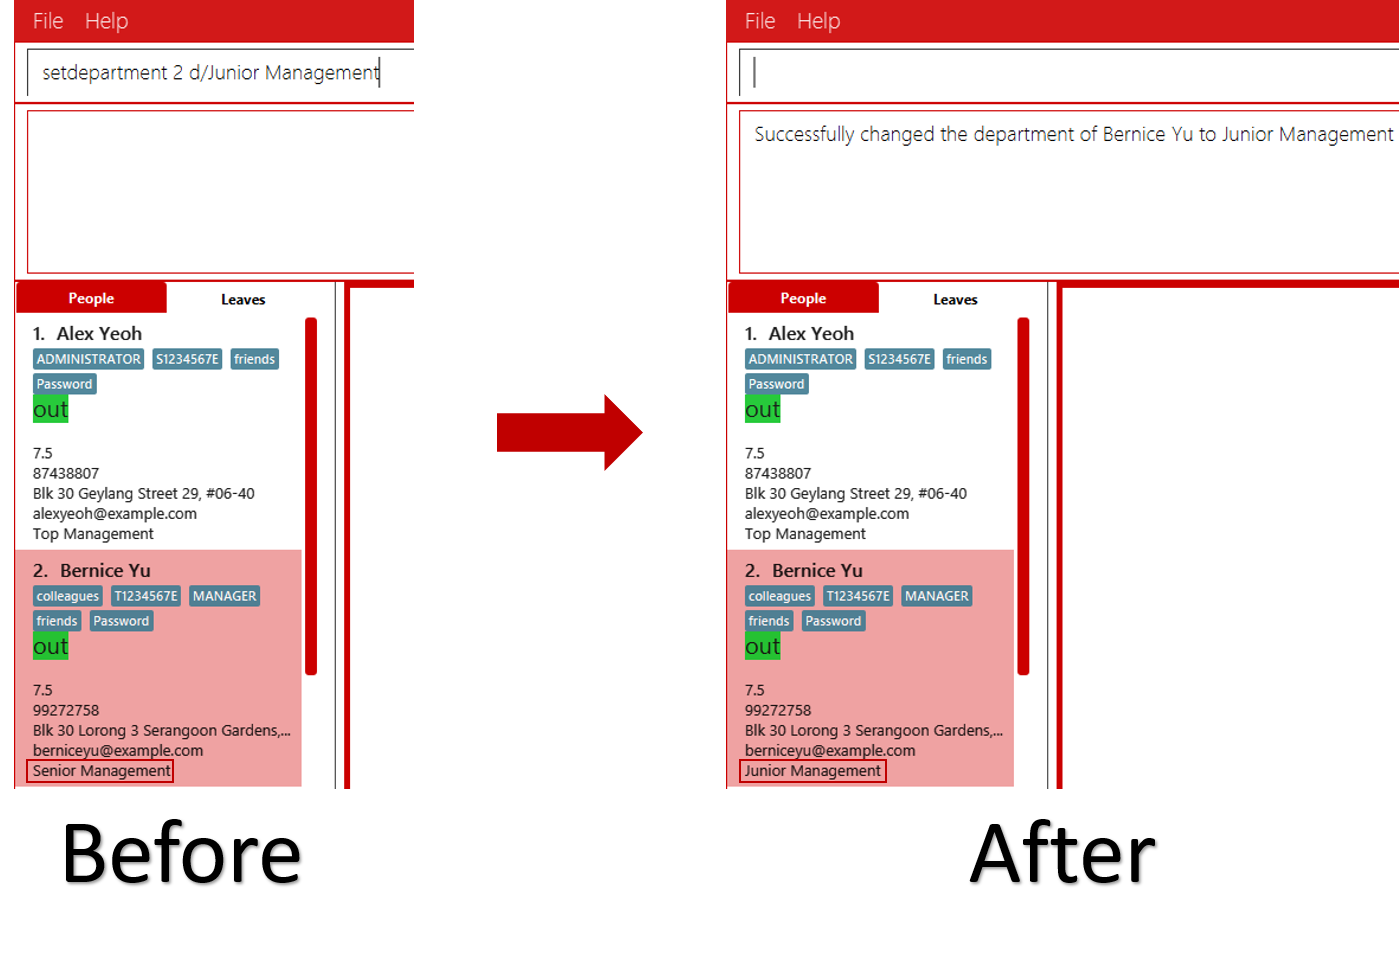
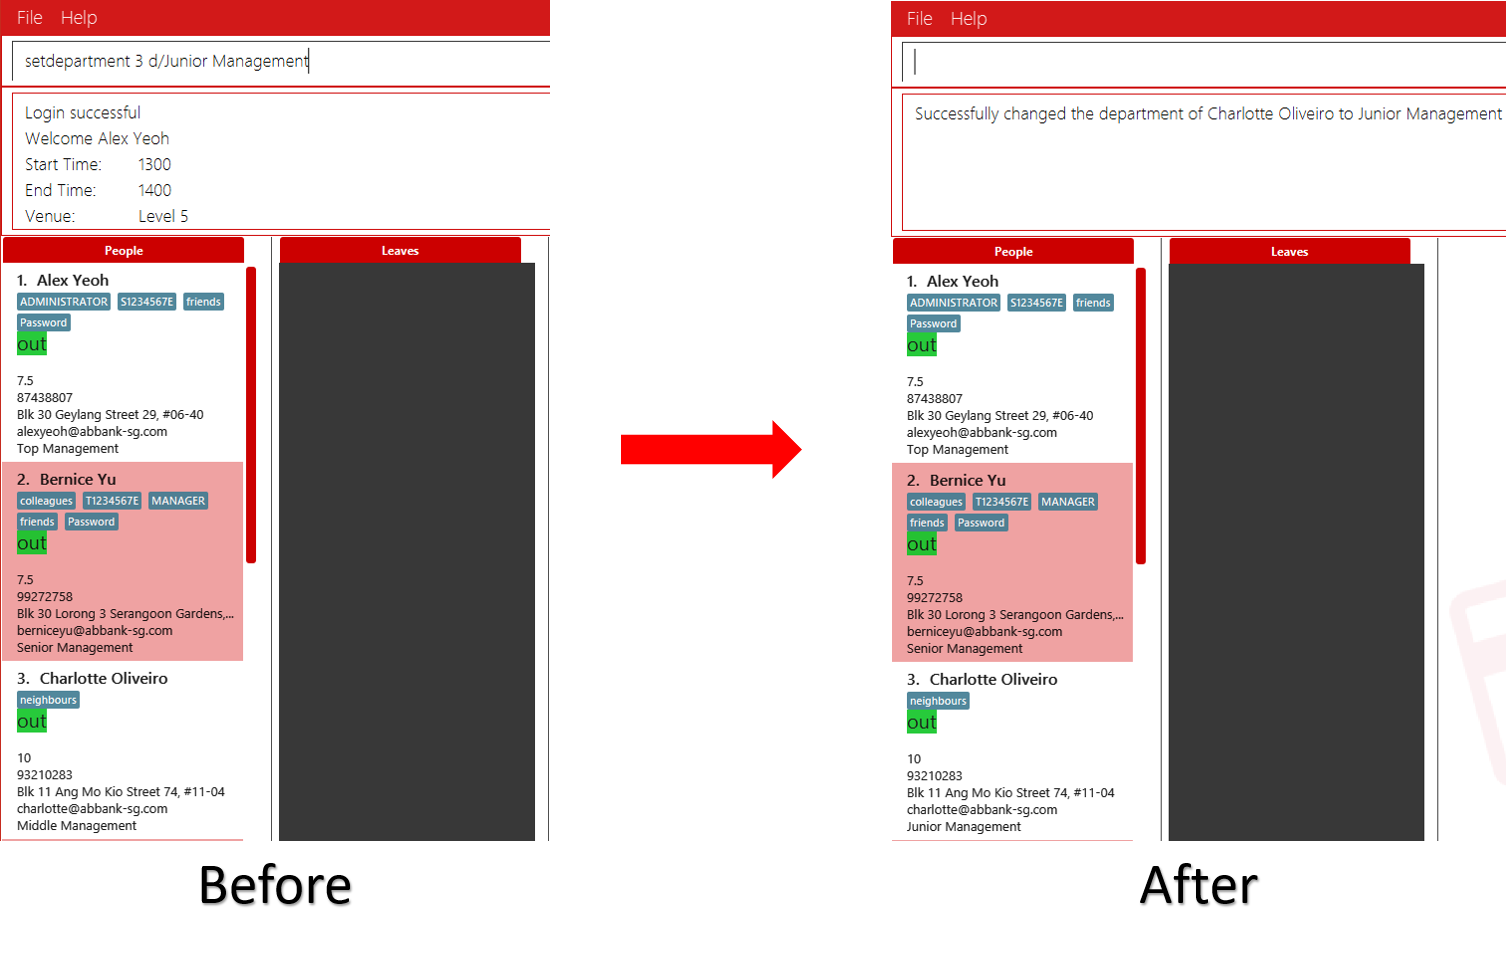
Rebuild pages at 8d084a7785b1a5d34f5092ece26e7e6dc1a65d03

diff --git a/HelpWindow.html b/HelpWindow.html
@@ -238,7 +238,7 @@ e.g.: Specifying parameters in the order ic/NRIC n/NAME is identical to n/NAME i
 <div class="paragraph">
 <p>Logs in to the application using a registered NRIC and password.<br>
 Format: <code>login ic/NRIC pwd/PASSWORD</code><br>
-Example: <code>login ic/T1234567E pwd/Password</code></p>
+Example: <code>login ic/S1234567E pwd/Password</code></p>
 </div>
 <div class="exampleblock">
 <div class="content">
@@ -252,7 +252,7 @@ Example: <code>login ic/T1234567E pwd/Password</code></p>
 </div>
 <div class="imageblock">
 <div class="content">
-<img src="images/login_success_screenShot.png" alt="login success screenShot" width="600">
+<img src="images/login_success_screenShot.png" alt="login success screenShot" width="">
 </div>
 </div>
 </div>
@@ -537,7 +537,7 @@ Format: <code>delete INDEX</code></p>
 <div class="paragraph">
 <p>Sets the priority level of an employee at the specified index.<br>
 Format: <code>setplvl INDEX plvl/PRIORITY_LEVEL</code><br>
-Example: <code>setplvl 4 plvl/3</code></p>
+Example: <code>setplvl 1 plvl/0</code></p>
 </div>
 <div class="exampleblock">
 <div class="content">
@@ -630,7 +630,7 @@ Alias: <code>sd</code></p>
 </div>
 </div>
 <div class="paragraph">
-<p>Example: <code>setdepartment 2 d/Junior Management</code></p>
+<p>Example: <code>setdepartment 3 d/Junior Management</code></p>
 </div>
 <div class="imageblock">
 <div class="content">
@@ -640,7 +640,7 @@ Alias: <code>sd</code></p>
 <div class="exampleblock">
 <div class="content">
 <div class="paragraph">
-<p>Changes the employee department with ID 2 in the address book to <code>Junior Management</code>.</p>
+<p>Changes the employee department with ID 3 in the address book to <code>Junior Management</code>.</p>
 </div>
 <div class="imageblock">
 <div class="content">
@@ -2032,4 +2032,4 @@ Department names should start with a name, and ends with 'Management'.</p></td>
 </tbody>
 </table>
 </div>
-</div></div><div id="footer"><div class="container"><div id="footer-text">Last updated 2018-11-02 06:49:32 UTC</div></div></div></body></html>
+</div></div><div id="footer"><div class="container"><div id="footer-text">Last updated 2018-11-02 06:54:50 UTC</div></div></div></body></html>

diff --git a/UserGuide.html b/UserGuide.html
@@ -238,7 +238,7 @@ e.g.: Specifying parameters in the order ic/NRIC n/NAME is identical to n/NAME i
 <div class="paragraph">
 <p>Logs in to the application using a registered NRIC and password.<br>
 Format: <code>login ic/NRIC pwd/PASSWORD</code><br>
-Example: <code>login ic/T1234567E pwd/Password</code></p>
+Example: <code>login ic/S1234567E pwd/Password</code></p>
 </div>
 <div class="exampleblock">
 <div class="content">
@@ -252,7 +252,7 @@ Example: <code>login ic/T1234567E pwd/Password</code></p>
 </div>
 <div class="imageblock">
 <div class="content">
-<img src="images/login_success_screenShot.png" alt="login success screenShot" width="600">
+<img src="images/login_success_screenShot.png" alt="login success screenShot" width="">
 </div>
 </div>
 </div>
@@ -537,7 +537,7 @@ Format: <code>delete INDEX</code></p>
 <div class="paragraph">
 <p>Sets the priority level of an employee at the specified index.<br>
 Format: <code>setplvl INDEX plvl/PRIORITY_LEVEL</code><br>
-Example: <code>setplvl 4 plvl/3</code></p>
+Example: <code>setplvl 1 plvl/0</code></p>
 </div>
 <div class="exampleblock">
 <div class="content">
@@ -630,7 +630,7 @@ Alias: <code>sd</code></p>
 </div>
 </div>
 <div class="paragraph">
-<p>Example: <code>setdepartment 2 d/Junior Management</code></p>
+<p>Example: <code>setdepartment 3 d/Junior Management</code></p>
 </div>
 <div class="imageblock">
 <div class="content">
@@ -640,7 +640,7 @@ Alias: <code>sd</code></p>
 <div class="exampleblock">
 <div class="content">
 <div class="paragraph">
-<p>Changes the employee department with ID 2 in the address book to <code>Junior Management</code>.</p>
+<p>Changes the employee department with ID 3 in the address book to <code>Junior Management</code>.</p>
 </div>
 <div class="imageblock">
 <div class="content">
@@ -2032,4 +2032,4 @@ Department names should start with a name, and ends with 'Management'.</p></td>
 </tbody>
 </table>
 </div>
-</div></div><div id="footer"><div class="container"><div id="footer-text">Last updated 2018-11-02 06:49:32 UTC</div></div></div></body></html>
+</div></div><div id="footer"><div class="container"><div id="footer-text">Last updated 2018-11-02 06:54:50 UTC</div></div></div></body></html>

diff --git a/ContactUs.html b/ContactUs.html
@@ -12,4 +12,4 @@
 <p><strong>Email us</strong> : You can also reach us at <code>limwoonhian [at] u.nus.edu</code></p>
 </li>
 </ul>
-</div></div><div id="footer"><div class="container"><div id="footer-text">Last updated 2018-11-02 06:49:32 UTC</div></div></div></body></html>
+</div></div><div id="footer"><div class="container"><div id="footer-text">Last updated 2018-11-02 06:54:50 UTC</div></div></div></body></html>

diff --git a/LearningOutcomes.html b/LearningOutcomes.html
@@ -542,4 +542,4 @@ class gives some examples of how to use <em>Equivalence Partitions</em>, <em>Bou
 </div>
 </div>
 </div>
-</div></div><div id="footer"><div class="container"><div id="footer-text">Last updated 2018-11-02 06:49:32 UTC</div></div></div></body></html>
+</div></div><div id="footer"><div class="container"><div id="footer-text">Last updated 2018-11-02 06:54:50 UTC</div></div></div></body></html>

diff --git a/team/chongyu.html b/team/chongyu.html
@@ -361,4 +361,4 @@ The <code>SetScheduleCommandParser</code>, which implements the <code>Parser</co
 </div>
 </div>
 </div>
-</div></div><div id="footer"><div class="container"><div id="footer-text">Last updated 2018-11-02 06:49:32 UTC</div></div></div></body></html>
+</div></div><div id="footer"><div class="container"><div id="footer-text">Last updated 2018-11-02 06:54:50 UTC</div></div></div></body></html>

diff --git a/UsingGradle.html b/UsingGradle.html
@@ -255,4 +255,4 @@ See <code>build.gradle</code> &#8594; <code>allprojects</code> &#8594; <code>dep
 </ul>
 </div>
 </div>
-</div></div><div id="footer"><div class="container"><div id="footer-text">Last updated 2018-11-02 06:49:32 UTC</div></div></div></body></html>
+</div></div><div id="footer"><div class="container"><div id="footer-text">Last updated 2018-11-02 06:54:50 UTC</div></div></div></body></html>

diff --git a/UsingNetlify.html b/UsingNetlify.html
@@ -123,4 +123,4 @@ The publish directory is the directory in which the built HTML documentation res
 </ol>
 </div>
 </div>
-</div></div><div id="footer"><div class="container"><div id="footer-text">Last updated 2018-11-02 06:49:32 UTC</div></div></div></body></html>
+</div></div><div id="footer"><div class="container"><div id="footer-text">Last updated 2018-11-02 06:54:50 UTC</div></div></div></body></html>

diff --git a/UsingCoveralls.html b/UsingCoveralls.html
@@ -96,4 +96,4 @@ If you have not set up Travis CI, see <a href="UsingTravis.html">UsingTravis.ado
 </ol>
 </div>
 </div>
-</div></div><div id="footer"><div class="container"><div id="footer-text">Last updated 2018-11-02 06:49:32 UTC</div></div></div></body></html>
+</div></div><div id="footer"><div class="container"><div id="footer-text">Last updated 2018-11-02 06:54:50 UTC</div></div></div></body></html>

diff --git a/AboutUs.html b/AboutUs.html
@@ -93,4 +93,4 @@ We are a team based in the <a href="http://www.comp.nus.edu.sg">School of Comput
 <hr>
 </div>
 </div>
-</div></div><div id="footer"><div class="container"><div id="footer-text">Last updated 2018-11-02 06:49:32 UTC</div></div></div></body></html>
+</div></div><div id="footer"><div class="container"><div id="footer-text">Last updated 2018-11-02 06:54:50 UTC</div></div></div></body></html>

diff --git a/UsingTravis.html b/UsingTravis.html
@@ -280,4 +280,4 @@ Suggested change: Remove the codacy badge from <code>README</code>.</p>
 </div>
 </div>
 </div>
-</div></div><div id="footer"><div class="container"><div id="footer-text">Last updated 2018-11-02 06:49:32 UTC</div></div></div></body></html>
+</div></div><div id="footer"><div class="container"><div id="footer-text">Last updated 2018-11-02 06:54:50 UTC</div></div></div></body></html>

diff --git a/UsingCheckstyle.html b/UsingCheckstyle.html
@@ -91,4 +91,4 @@ Restart the IDE to complete the installation.</p>
 </ul>
 </div>
 </div>
-</div></div><div id="footer"><div class="container"><div id="footer-text">Last updated 2018-11-02 06:49:32 UTC</div></div></div></body></html>
+</div></div><div id="footer"><div class="container"><div id="footer-text">Last updated 2018-11-02 06:54:50 UTC</div></div></div></body></html>

diff --git a/DeveloperGuide.html b/DeveloperGuide.html
@@ -3718,4 +3718,4 @@ Expected: Similar to previous.</p>
 </div>
 </div>
 </div>
-</div></div><div id="footer"><div class="container"><div id="footer-text">Last updated 2018-11-02 06:49:32 UTC</div></div></div></body></html>
+</div></div><div id="footer"><div class="container"><div id="footer-text">Last updated 2018-11-02 06:54:50 UTC</div></div></div></body></html>
